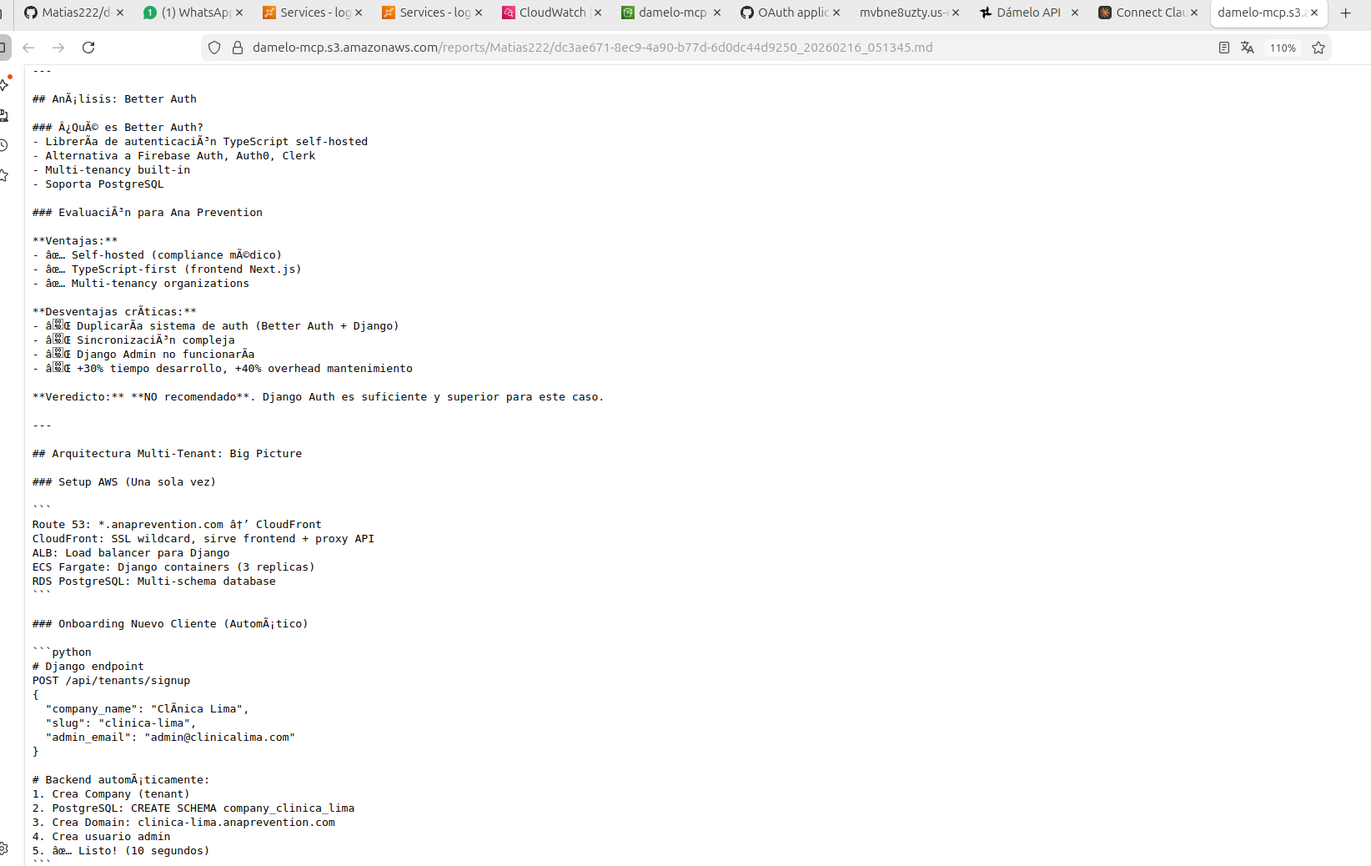
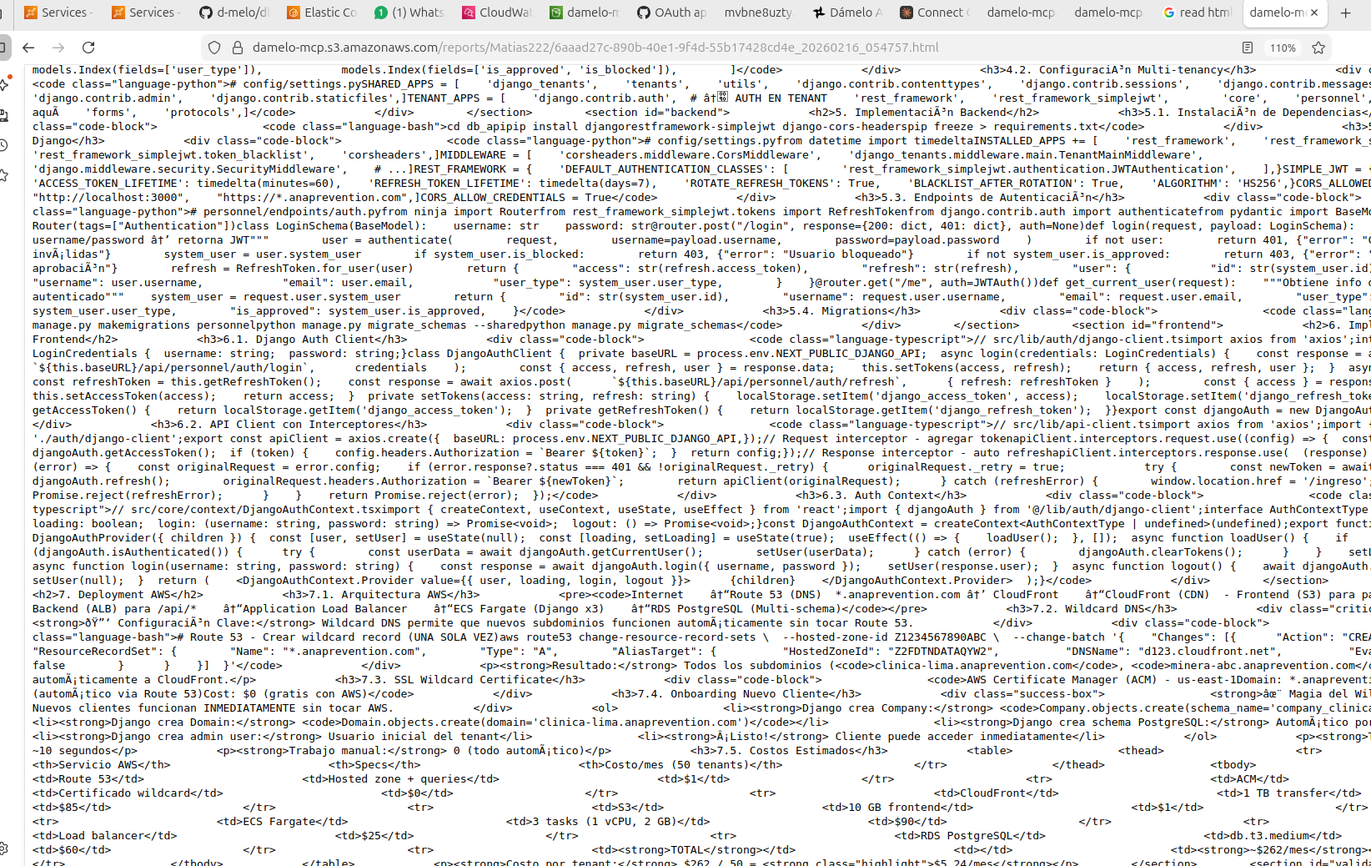
bs para el formateo de html

diff --git a/mcp/zz.html b/mcp/zz.html
@@ -1,0 +1,1 @@
+<!DOCTYPE html><html lang="es"><head>    <meta charset="UTF-8">    <meta name="viewport" content="width=device-width, initial-scale=1.0">    <title>Fase 0: Django Auth Setup - Ana Prevention</title>    <style>        * {            margin: 0;            padding: 0;            box-sizing: border-box;        }                body {            font-family: -apple-system, BlinkMacSystemFont, 'Segoe UI', Roboto, 'Helvetica Neue', Arial, sans-serif;            line-height: 1.6;            color: #333;            background: #f5f5f5;            padding: 20px;        }                .container {            max-width: 1200px;            margin: 0 auto;            background: white;            padding: 40px;            border-radius: 8px;            box-shadow: 0 2px 8px rgba(0,0,0,0.1);        }                header {            border-bottom: 3px solid #28D196;            padding-bottom: 20px;            margin-bottom: 40px;        }                h1 {            color: #1a1a1a;            font-size: 2.5em;            margin-bottom: 10px;        }                .subtitle {            color: #666;            font-size: 1.2em;        }                h2 {            color: #28D196;            font-size: 1.8em;            margin-top: 40px;            margin-bottom: 20px;            padding-bottom: 10px;            border-bottom: 2px solid #e0e0e0;        }                h3 {            color: #333;            font-size: 1.4em;            margin-top: 30px;            margin-bottom: 15px;        }                h4 {            color: #555;            font-size: 1.2em;            margin-top: 20px;            margin-bottom: 10px;        }                p {            margin-bottom: 15px;        }                ul, ol {            margin-left: 30px;            margin-bottom: 15px;        }                li {            margin-bottom: 8px;        }                pre {            background: #f8f8f8;            border: 1px solid #e0e0e0;            border-radius: 4px;            padding: 15px;            overflow-x: auto;            margin-bottom: 20px;        }                code {            font-family: 'Courier New', Courier, monospace;            font-size: 0.9em;        }                .code-block {            background: #2d2d2d;            color: #f8f8f2;            padding: 20px;            border-radius: 6px;            margin-bottom: 20px;            overflow-x: auto;        }                .code-block code {            color: #f8f8f2;        }                .info-box {            background: #e3f2fd;            border-left: 4px solid #2196F3;            padding: 15px;            margin-bottom: 20px;            border-radius: 4px;        }                .warning-box {            background: #fff3e0;            border-left: 4px solid #ff9800;            padding: 15px;            margin-bottom: 20px;            border-radius: 4px;        }                .success-box {            background: #e8f5e9;            border-left: 4px solid #4caf50;            padding: 15px;            margin-bottom: 20px;            border-radius: 4px;        }                .critical-box {            background: #ffebee;            border-left: 4px solid #f44336;            padding: 15px;            margin-bottom: 20px;            border-radius: 4px;        }                table {            width: 100%;            border-collapse: collapse;            margin-bottom: 20px;        }                th, td {            padding: 12px;            text-align: left;            border: 1px solid #e0e0e0;        }                th {            background: #28D196;            color: white;            font-weight: 600;        }                tr:nth-child(even) {            background: #f9f9f9;        }                .toc {            background: #f8f8f8;            padding: 20px;            border-radius: 6px;            margin-bottom: 30px;        }                .toc h2 {            margin-top: 0;            border-bottom: none;        }                .toc ul {            list-style: none;            margin-left: 0;        }                .toc li {            margin-bottom: 5px;        }                .toc a {            color: #28D196;            text-decoration: none;        }                .toc a:hover {            text-decoration: underline;        }                .emoji {            font-size: 1.2em;        }                .highlight {            background: #fff176;            padding: 2px 4px;            border-radius: 2px;        }                .badge {            display: inline-block;            padding: 4px 8px;            border-radius: 12px;            font-size: 0.85em;            font-weight: 600;            margin-right: 5px;        }                .badge-success {            background: #4caf50;            color: white;        }                .badge-warning {            background: #ff9800;            color: white;        }                .badge-info {            background: #2196F3;            color: white;        }                .badge-critical {            background: #f44336;            color: white;        }    </style></head><body>    <div class="container">        <header>            <h1>🚀 Fase 0: Django Auth + Multi-tenancy</h1>            <p class="subtitle">Plan de Implementación Completo - Ana Prevention SaaS</p>            <p><strong>Fecha:</strong> Febrero 2026 | <strong>Proyecto:</strong> Ana Prevention v2</p>        </header>        <div class="toc">            <h2>📑 Tabla de Contenidos</h2>            <ul>                <li><a href="#resumen">1. Resumen Ejecutivo</a></li>                <li><a href="#decisiones">2. Decisiones Arquitectónicas</a></li>                <li><a href="#bd-legacy">3. Análisis Base de Datos Legacy</a></li>                <li><a href="#modelo">4. Modelo de Datos</a></li>                <li><a href="#backend">5. Implementación Backend</a></li>                <li><a href="#frontend">6. Implementación Frontend</a></li>                <li><a href="#aws">7. Deployment AWS</a></li>                <li><a href="#validacion">8. Validación de Subdominios</a></li>                <li><a href="#checklist">9. Checklist de Implementación</a></li>            </ul>        </div>        <section id="resumen">            <h2>1. Resumen Ejecutivo</h2>                        <div class="success-box">                <strong>✅ Decisión Final:</strong> Implementar Django Auth + JWT con arquitectura multi-tenant domain-based            </div>            <h3>Contexto del Proyecto</h3>            <p>Ana Prevention es un SaaS para empresas clínicas ocupacionales que está migrando desde un sistema legacy. El proyecto requiere:</p>            <ul>                <li><strong>Multi-tenancy:</strong> Cada clínica opera de forma aislada</li>                <li><strong>578 usuarios legacy:</strong> A migrar desde MySQL con ASP.NET Identity hashes</li>                <li><strong>Compliance médico:</strong> HIPAA-ready, datos sensibles</li>                <li><strong>Escalabilidad:</strong> Preparado para cientos de clientes</li>            </ul>            <h3>Stack Tecnológico</h3>            <table>                <thead>                    <tr>                        <th>Componente</th>                        <th>Tecnología</th>                        <th>Versión</th>                    </tr>                </thead>                <tbody>                    <tr>                        <td>Backend Framework</td>                        <td>Django</td>                        <td>5.2.10</td>                    </tr>                    <tr>                        <td>API Framework</td>                        <td>Django Ninja</td>                        <td>1.5.3</td>                    </tr>                    <tr>                        <td>Multi-tenancy</td>                        <td>django-tenants</td>                        <td>3.9.0</td>                    </tr>                    <tr>                        <td>Authentication</td>                        <td>djangorestframework-simplejwt</td>                        <td>5.3.0</td>                    </tr>                    <tr>                        <td>Database</td>                        <td>PostgreSQL</td>                        <td>15+</td>                    </tr>                    <tr>                        <td>Frontend</td>                        <td>Next.js + React</td>                        <td>14 + 18</td>                    </tr>                </tbody>            </table>        </section>        <section id="decisiones">            <h2>2. Decisiones Arquitectónicas</h2>            <h3>2.1. Django Auth vs. Better Auth vs. Firebase</h3>                        <div class="info-box">                <strong>Decisión:</strong> Django Auth + SimpleJWT            </div>            <h4>Alternativas Evaluadas:</h4>            <table>                <thead>                    <tr>                        <th>Solución</th>                        <th>Ventajas</th>                        <th>Desventajas</th>                        <th>Veredicto</th>                    </tr>                </thead>                <tbody>                    <tr>                        <td><strong>Django Auth</strong></td>                        <td>                            • Maduro (18 años)<br>                            • Permissions/Groups built-in<br>                            • Django Admin funciona<br>                            • Migración directa desde legacy<br>                            • Sin costos adicionales                        </td>                        <td>                            • Frontend debe implementar login UI<br>                            • No hay hooks preconstruidos                        </td>                        <td><span class="badge badge-success">✅ ELEGIDO</span></td>                    </tr>                    <tr>                        <td><strong>Better Auth</strong></td>                        <td>                            • TypeScript nativo<br>                            • Self-hosted<br>                            • Multi-tenancy built-in<br>                            • Hooks React                        </td>                        <td>                            • Duplica sistema de auth<br>                            • Sincronización compleja<br>                            • Django Admin no funciona<br>                            • +30% tiempo desarrollo                        </td>                        <td><span class="badge badge-critical">❌ Rechazado</span></td>                    </tr>                    <tr>                        <td><strong>Firebase Auth</strong></td>                        <td>                            • Setup rápido<br>                            • OAuth social fácil<br>                            • Documentación excelente                        </td>                        <td>                            • Vendor lock-in<br>                            • Datos en servidores Google<br>                            • Compliance complejo<br>                            • Costos recurrentes                        </td>                        <td><span class="badge badge-critical">❌ Rechazado</span></td>                    </tr>                </tbody>            </table>            <h3>2.2. SHARED vs. TENANT Users</h3>                        <div class="info-box">                <strong>Decisión:</strong> TENANT model (users en schema del tenant)            </div>            <h4>Justificación:</h4>            <ul>                <li><strong>Aislamiento total:</strong> Cada clínica tiene sus propios usuarios, 100% aislados</li>                <li><strong>Seguridad:</strong> No hay riesgo de data leak entre tenants</li>                <li><strong>Simplicidad:</strong> User pertenece a UN solo tenant (matching con legacy)</li>                <li><strong>Compliance:</strong> Cumplimiento médico más simple de auditar</li>                <li><strong>Consistency con legacy:</strong> El sistema legacy ya usa este modelo</li>            </ul>            <div class="warning-box">                <strong>⚠ Implicación:</strong> Si un doctor trabaja en múltiples clínicas, necesitará múltiples cuentas (una por clínica). Esto es aceptable para el caso de uso médico.            </div>            <h3>2.3. Domain-based Multi-tenancy</h3>                        <div class="info-box">                <strong>Decisión:</strong> Cada clínica tiene su propio subdominio            </div>            <h4>Arquitectura:</h4>            <pre><code>Clínica Lima:     https://clinica-lima.anaprevention.comClínica Arequipa: https://clinica-arequipa.anaprevention.comMinera ABC:       https://minera-abc.anaprevention.com</code></pre>            <h4>Ventajas:</h4>            <ul>                <li>✅ <strong>Branding:</strong> Cada empresa tiene su "espacio" propio</li>                <li>✅ <strong>Seguridad:</strong> Aislamiento visual claro</li>                <li>✅ <strong>Compliance:</strong> Mejor para auditorías médicas</li>                <li>✅ <strong>Profesional:</strong> URLs branded por cliente</li>                <li>✅ <strong>Wildcard DNS:</strong> Nuevos clientes funcionan inmediatamente</li>            </ul>        </section>        <section id="bd-legacy">            <h2>3. Análisis Base de Datos Legacy</h2>            <h3>3.1. Estructura de Usuarios Legacy</h3>                        <p>La base de datos legacy (MySQL) contiene <strong class="highlight">578 usuarios activos</strong> en la tabla <code>security_users</code>:</p>            <div class="code-block">                <code>security_users (MySQL Legacy)├── id (char(36))                          -- UUID├── user_type_id (char(36))                -- FK → security_user_types (rol)├── company_id (char(36))                  -- FK → companies (TENANT)├── person_id (char(36))                   -- FK → persons├── user_name (varchar(30))                -- Username/email├── password (varchar(200))                -- ASP.NET Identity hash (PBKDF2)├── refresh_token (longtext)├── refresh_token_expiry_time (datetime)├── status (tinyint(1))├── is_blocked (tinyint(1))├── is_approved (tinyint(1))└── full_name (varchar(255))</code>            </div>            <h3>3.2. Tipos de Usuario Legacy</h3>            <ul>                <li>Médico Ocupacional</li>                <li>Radiología</li>                <li>Neurología</li>                <li>Operaciones</li>                <li>Digitación y Escaneo</li>                <li>Gerencia</li>                <li>Analista de Datos</li>                <li>BOT (automatización)</li>                <li>Tercero (externos)</li>            </ul>            <h3>3.3. Estrategia de Migración</h3>                        <div class="success-box">                <strong>Approach:</strong> Migración con validación de password legacy en primer login            </div>            <ol>                <li><strong>Migrar usuarios:</strong> Copiar de <code>security_users</code> a Django <code>auth_user</code></li>                <li><strong>Preservar hashes:</strong> Guardar hash ASP.NET temporalmente</li>                <li><strong>Custom hasher:</strong> Django valida con hasher ASP.NET en primer login</li>                <li><strong>Rehash automático:</strong> En login exitoso, rehash a Django PBKDF2</li>                <li><strong>Transparente:</strong> Usuario no nota diferencia</li>            </ol>        </section>        <section id="modelo">            <h2>4. Modelo de Datos</h2>            <h3>4.1. SystemUser Model</h3>                        <p>Crear en la app <code>personnel</code> (TENANT_APP):</p>            <div class="code-block">                <code class="language-python"># personnel/models/system_user.pyfrom django.contrib.auth.models import Userfrom django.db import modelsimport uuidclass SystemUser(models.Model):    """Usuario del sistema (staff: admins, doctores, enfermeras, etc.)"""    id = models.UUIDField(primary_key=True, default=uuid.uuid4)        # Django User (auth)    user = models.OneToOneField(        User,        on_delete=models.CASCADE,        related_name='system_user'    )        # Relación con Person (si el user es también un Person/Doctor)    person = models.OneToOneField(        'personnel.Person',        null=True,        blank=True,        on_delete=models.SET_NULL,        related_name='system_user'    )        # Tipo de usuario    user_type = models.CharField(        max_length=100,        choices=[            ('admin', 'Administrador'),            ('doctor', 'Médico Ocupacional'),            ('nurse', 'Enfermera'),            ('operator', 'Operador'),            ('digitizer', 'Digitación'),            ('auditor', 'Auditor'),        ]    )        # Settings personalizados    settings_json = models.JSONField(default=dict, blank=True)        # Control de acceso    is_approved = models.BooleanField(default=False)    is_blocked = models.BooleanField(default=False)    request_change_password = models.BooleanField(default=False)        # Migración legacy    legacy_id = models.UUIDField(null=True, blank=True)        # Auditoría    created_at = models.DateTimeField(auto_now_add=True)    updated_at = models.DateTimeField(auto_now=True)        class Meta:        db_table = 'personnel_system_user'        indexes = [            models.Index(fields=['user_type']),            models.Index(fields=['is_approved', 'is_blocked']),        ]</code>            </div>            <h3>4.2. Configuración Multi-tenancy</h3>            <div class="code-block">                <code class="language-python"># config/settings.pySHARED_APPS = [    'django_tenants',    'tenants',    'utils',    'django.contrib.contenttypes',    'django.contrib.sessions',    'django.contrib.messages',    'django.contrib.admin',    'django.contrib.staticfiles',]TENANT_APPS = [    'django.contrib.auth',  # ← AUTH EN TENANT    'rest_framework',    'rest_framework_simplejwt',        'core',    'personnel',  # ← SystemUser aquí    'forms',    'protocols',]</code>            </div>        </section>        <section id="backend">            <h2>5. Implementación Backend</h2>            <h3>5.1. Instalación de Dependencias</h3>            <div class="code-block">                <code class="language-bash">cd db_apipip install djangorestframework-simplejwt django-cors-headerspip freeze > requirements.txt</code>            </div>            <h3>5.2. Configuración Django</h3>            <div class="code-block">                <code class="language-python"># config/settings.pyfrom datetime import timedeltaINSTALLED_APPS += [    'rest_framework',    'rest_framework_simplejwt',    'rest_framework_simplejwt.token_blacklist',    'corsheaders',]MIDDLEWARE = [    'corsheaders.middleware.CorsMiddleware',    'django_tenants.middleware.main.TenantMainMiddleware',    'django.middleware.security.SecurityMiddleware',    # ...]REST_FRAMEWORK = {    'DEFAULT_AUTHENTICATION_CLASSES': [        'rest_framework_simplejwt.authentication.JWTAuthentication',    ],}SIMPLE_JWT = {    'ACCESS_TOKEN_LIFETIME': timedelta(minutes=60),    'REFRESH_TOKEN_LIFETIME': timedelta(days=7),    'ROTATE_REFRESH_TOKENS': True,    'BLACKLIST_AFTER_ROTATION': True,    'ALGORITHM': 'HS256',}CORS_ALLOWED_ORIGINS = [    "http://localhost:3000",    "https://*.anaprevention.com",]CORS_ALLOW_CREDENTIALS = True</code>            </div>            <h3>5.3. Endpoints de Autenticación</h3>            <div class="code-block">                <code class="language-python"># personnel/endpoints/auth.pyfrom ninja import Routerfrom rest_framework_simplejwt.tokens import RefreshTokenfrom django.contrib.auth import authenticatefrom pydantic import BaseModelrouter = Router(tags=["Authentication"])class LoginSchema(BaseModel):    username: str    password: str@router.post("/login", response={200: dict, 401: dict}, auth=None)def login(request, payload: LoginSchema):    """Login con username/password → retorna JWT"""        user = authenticate(        request,        username=payload.username,        password=payload.password    )        if not user:        return 401, {"error": "Credenciales inválidas"}        system_user = user.system_user        if system_user.is_blocked:        return 403, {"error": "Usuario bloqueado"}        if not system_user.is_approved:        return 403, {"error": "Usuario pendiente de aprobación"}        refresh = RefreshToken.for_user(user)        return {        "access": str(refresh.access_token),        "refresh": str(refresh),        "user": {            "id": str(system_user.id),            "username": user.username,            "email": user.email,            "user_type": system_user.user_type,        }    }@router.get("/me", auth=JWTAuth())def get_current_user(request):    """Obtiene info del usuario autenticado"""    system_user = request.user.system_user        return {        "id": str(system_user.id),        "username": request.user.username,        "email": request.user.email,        "user_type": system_user.user_type,        "is_approved": system_user.is_approved,    }</code>            </div>            <h3>5.4. Migrations</h3>            <div class="code-block">                <code class="language-bash">python manage.py makemigrations personnelpython manage.py migrate_schemas --sharedpython manage.py migrate_schemas</code>            </div>        </section>        <section id="frontend">            <h2>6. Implementación Frontend</h2>            <h3>6.1. Django Auth Client</h3>            <div class="code-block">                <code class="language-typescript">// src/lib/auth/django-client.tsimport axios from 'axios';interface LoginCredentials {  username: string;  password: string;}class DjangoAuthClient {  private baseURL = process.env.NEXT_PUBLIC_DJANGO_API;  async login(credentials: LoginCredentials) {    const response = await axios.post(      `${this.baseURL}/api/personnel/auth/login`,      credentials    );        const { access, refresh, user } = response.data;    this.setTokens(access, refresh);    return { access, refresh, user };  }  async refresh() {    const refreshToken = this.getRefreshToken();    const response = await axios.post(      `${this.baseURL}/api/personnel/auth/refresh`,      { refresh: refreshToken }    );        const { access } = response.data;    this.setAccessToken(access);    return access;  }  private setTokens(access: string, refresh: string) {    localStorage.setItem('django_access_token', access);    localStorage.setItem('django_refresh_token', refresh);  }  getAccessToken() {    return localStorage.getItem('django_access_token');  }  private getRefreshToken() {    return localStorage.getItem('django_refresh_token');  }}export const djangoAuth = new DjangoAuthClient();</code>            </div>            <h3>6.2. API Client con Interceptores</h3>            <div class="code-block">                <code class="language-typescript">// src/lib/api-client.tsimport axios from 'axios';import { djangoAuth } from './auth/django-client';export const apiClient = axios.create({  baseURL: process.env.NEXT_PUBLIC_DJANGO_API,});// Request interceptor - agregar tokenapiClient.interceptors.request.use((config) => {  const token = djangoAuth.getAccessToken();  if (token) {    config.headers.Authorization = `Bearer ${token}`;  }  return config;});// Response interceptor - auto refreshapiClient.interceptors.response.use(  (response) => response,  async (error) => {    const originalRequest = error.config;    if (error.response?.status === 401 && !originalRequest._retry) {      originalRequest._retry = true;            try {        const newToken = await djangoAuth.refresh();        originalRequest.headers.Authorization = `Bearer ${newToken}`;        return apiClient(originalRequest);      } catch (refreshError) {        window.location.href = '/ingreso';        return Promise.reject(refreshError);      }    }    return Promise.reject(error);  });</code>            </div>            <h3>6.3. Auth Context</h3>            <div class="code-block">                <code class="language-typescript">// src/core/context/DjangoAuthContext.tsximport { createContext, useContext, useState, useEffect } from 'react';import { djangoAuth } from '@/lib/auth/django-client';interface AuthContextType {  user: User | null;  loading: boolean;  login: (username: string, password: string) => Promise<void>;  logout: () => Promise<void>;}const DjangoAuthContext = createContext<AuthContextType | undefined>(undefined);export function DjangoAuthProvider({ children }) {  const [user, setUser] = useState(null);  const [loading, setLoading] = useState(true);  useEffect(() => {    loadUser();  }, []);  async function loadUser() {    if (djangoAuth.isAuthenticated()) {      try {        const userData = await djangoAuth.getCurrentUser();        setUser(userData);      } catch (error) {        djangoAuth.clearTokens();      }    }    setLoading(false);  }  async function login(username: string, password: string) {    const response = await djangoAuth.login({ username, password });    setUser(response.user);  }  async function logout() {    await djangoAuth.logout();    setUser(null);  }  return (    <DjangoAuthContext.Provider value={{ user, loading, login, logout }}>      {children}    </DjangoAuthContext.Provider>  );}</code>            </div>        </section>        <section id="aws">            <h2>7. Deployment AWS</h2>            <h3>7.1. Arquitectura AWS</h3>            <pre><code>Internet    ↓Route 53 (DNS)  *.anaprevention.com → CloudFront    ↓CloudFront (CDN)  - Frontend (S3) para paths normales  - Backend (ALB) para /api/*    ↓Application Load Balancer    ↓ECS Fargate (Django x3)    ↓RDS PostgreSQL (Multi-schema)</code></pre>            <h3>7.2. Wildcard DNS</h3>            <div class="critical-box">                <strong>🔑 Configuración Clave:</strong> Wildcard DNS permite que nuevos subdominios funcionen automáticamente sin tocar Route 53.            </div>            <div class="code-block">                <code class="language-bash"># Route 53 - Crear wildcard record (UNA SOLA VEZ)aws route53 change-resource-record-sets \  --hosted-zone-id Z1234567890ABC \  --change-batch '{    "Changes": [{      "Action": "CREATE",      "ResourceRecordSet": {        "Name": "*.anaprevention.com",        "Type": "A",        "AliasTarget": {          "HostedZoneId": "Z2FDTNDATAQYW2",          "DNSName": "d123.cloudfront.net",          "EvaluateTargetHealth": false        }      }    }]  }'</code>            </div>            <p><strong>Resultado:</strong> Todos los subdominios (<code>clinica-lima.anaprevention.com</code>, <code>minera-abc.anaprevention.com</code>, etc.) apuntan automáticamente a CloudFront.</p>            <h3>7.3. SSL Wildcard Certificate</h3>            <div class="code-block">                <code>AWS Certificate Manager (ACM) - us-east-1Domain: *.anaprevention.comValidation: DNS (automático via Route 53)Cost: $0 (gratis con AWS)</code>            </div>            <h3>7.4. Onboarding Nuevo Cliente</h3>            <div class="success-box">                <strong>✨ Magia del Wildcard:</strong> Nuevos clientes funcionan INMEDIATAMENTE sin tocar AWS.            </div>            <ol>                <li><strong>Django crea Company:</strong> <code>Company.objects.create(schema_name='company_clinica_lima')</code></li>                <li><strong>Django crea Domain:</strong> <code>Domain.objects.create(domain='clinica-lima.anaprevention.com')</code></li>                <li><strong>Django crea schema PostgreSQL:</strong> Automático por django-tenants</li>                <li><strong>Django crea admin user:</strong> Usuario inicial del tenant</li>                <li><strong>¡Listo!</strong> Cliente puede acceder inmediatamente</li>            </ol>            <p><strong>Tiempo total:</strong> ~10 segundos</p>            <p><strong>Trabajo manual:</strong> 0 (todo automático)</p>            <h3>7.5. Costos Estimados</h3>            <table>                <thead>                    <tr>                        <th>Servicio AWS</th>                        <th>Specs</th>                        <th>Costo/mes (50 tenants)</th>                    </tr>                </thead>                <tbody>                    <tr>                        <td>Route 53</td>                        <td>Hosted zone + queries</td>                        <td>$1</td>                    </tr>                    <tr>                        <td>ACM</td>                        <td>Certificado wildcard</td>                        <td>$0</td>                    </tr>                    <tr>                        <td>CloudFront</td>                        <td>1 TB transfer</td>                        <td>$85</td>                    </tr>                    <tr>                        <td>S3</td>                        <td>10 GB frontend</td>                        <td>$1</td>                    </tr>                    <tr>                        <td>ECS Fargate</td>                        <td>3 tasks (1 vCPU, 2 GB)</td>                        <td>$90</td>                    </tr>                    <tr>                        <td>ALB</td>                        <td>Load balancer</td>                        <td>$25</td>                    </tr>                    <tr>                        <td>RDS PostgreSQL</td>                        <td>db.t3.medium</td>                        <td>$60</td>                    </tr>                    <tr>                        <td><strong>TOTAL</strong></td>                        <td></td>                        <td><strong>~$262/mes</strong></td>                    </tr>                </tbody>            </table>            <p><strong>Costo por tenant:</strong> $262 / 50 = <strong class="highlight">$5.24/mes</strong></p>        </section>        <section id="validacion">            <h2>8. Validación de Subdominios</h2>            <h3>8.1. Problema</h3>            <div class="warning-box">                <strong>⚠ Issue:</strong> Con wildcard DNS, <strong>cualquier</strong> subdominio carga el frontend, incluso subdominios que no existen en la base de datos.            </div>            <p>Ejemplos problemáticos:</p>            <ul>                <li><code>aslkdnaslkd1.anaprevention.com</code> → Cargaría frontend ❌</li>                <li><code>clinca-lima.anaprevention.com</code> (typo) → Cargaría frontend ❌</li>                <li><code>hacker-test.anaprevention.com</code> → Cargaría frontend ❌</li>            </ul>            <h3>8.2. Solución: Validación en Frontend al Cargar</h3>            <div class="success-box">                <strong>✅ Approach:</strong> Frontend ejecuta "ping" al backend al cargar para validar que el subdomain existe.            </div>            <h4>Backend: Endpoint de Validación</h4>            <div class="code-block">                <code class="language-python"># tenants/endpoints/validation.py@router.get("/validate", auth=None)def validate_tenant(request):    """Valida que el domain del request existe"""    hostname = request.get_host()        try:        domain = Domain.objects.get(domain=hostname)        tenant = domain.tenant                return {            'valid': True,            'tenant': {                'id': str(tenant.id),                'name': tenant.name,            }        }    except Domain.DoesNotExist:        # Buscar sugerencias (typo correction)        suggestions = get_domain_suggestions(hostname)                return JsonResponse({            'valid': False,            'error': 'domain_not_found',            'message': f'El dominio {hostname} no existe.',            'suggestions': suggestions        }, status=404)</code>            </div>            <h4>Frontend: Validator Component</h4>            <div class="code-block">                <code class="language-typescript">// src/components/TenantValidator.tsxexport function TenantValidator({ children }) {  const [status, setStatus] = useState('validating');  useEffect(() => {    validateTenant();  }, []);  async function validateTenant() {    try {      const response = await fetch('/api/tenants/validate');      const data = await response.json();      if (response.ok && data.valid) {        setStatus('valid');      } else {        setStatus('invalid');      }    } catch (error) {      setStatus('invalid');    }  }  if (status === 'validating') {    return <LoadingScreen />;  }  if (status === 'invalid') {    return <InvalidTenantScreen />;  }  return children;}</code>            </div>            <h3>8.3. Flujo de Validación</h3>            <pre><code>1. Usuario accede: https://typo-error.anaprevention.com   ↓2. CloudFront sirve frontend (HTML)   ↓ (~200ms)3. Frontend carga y ejecuta validación   fetch('/api/tenants/validate')   ↓4. Django valida: Domain.objects.get(domain=hostname)   → NO EXISTE   ↓5. Backend retorna 404 con sugerencias   ↓6. Frontend muestra:   "🔍 Organización no encontrada    ¿Quisiste decir clinica-lima.anaprevention.com?"</code></pre>            <p><strong>Tiempo total:</strong> ~500ms</p>            <p><strong>UX:</strong> Error amigable con sugerencias inteligentes</p>        </section>        <section id="checklist">            <h2>9. Checklist de Implementación</h2>            <h3>9.1. Backend (db_api)</h3>            <div class="code-block">                <code>[ ] 1. Instalar dependencias    pip install djangorestframework-simplejwt django-cors-headers[ ] 2. Configurar settings.py    - TENANT_APPS += ['django.contrib.auth']    - REST_FRAMEWORK authentication    - SIMPLE_JWT config    - CORS settings[ ] 3. Crear modelo SystemUser    - personnel/models/system_user.py    - Relaciones: User, Person    - Campos: user_type, is_approved, is_blocked[ ] 4. Crear endpoints de auth    - POST /api/personnel/auth/login    - GET /api/personnel/auth/me    - POST /api/personnel/auth/refresh[ ] 5. Crear endpoint de validación    - GET /api/tenants/validate[ ] 6. Migrations    - makemigrations    - migrate_schemas[ ] 7. Script de migración legacy    - management/commands/migrate_legacy_users.py[ ] 8. Testing    - Test login flow    - Test JWT refresh    - Test multi-tenancy isolation</code>            </div>            <h3>9.2. Frontend (ana-prevention-v2)</h3>            <div class="code-block">                <code>[ ] 1. Crear DjangoAuthClient    - src/lib/auth/django-client.ts    - Métodos: login, refresh, logout[ ] 2. Crear API Client    - src/lib/api-client.ts    - Interceptores: request (token), response (refresh)[ ] 3. Crear AuthContext    - src/core/context/DjangoAuthContext.tsx    - Estado: user, loading    - Funciones: login, logout[ ] 4. Crear TenantValidator    - src/components/TenantValidator.tsx    - Validación al cargar[ ] 5. Crear InvalidTenantScreen    - src/components/InvalidTenantScreen.tsx    - Mensaje de error + sugerencias[ ] 6. Integrar en layout    - src/app/layout.tsx    - Wrap con DjangoAuthProvider + TenantValidator[ ] 7. Página de login    - src/app/ingreso/page.tsx    - Form + validación[ ] 8. Eliminar Firebase    - Remover dependencias    - Limpiar código Firebase Auth</code>            </div>            <h3>9.3. AWS Deployment</h3>            <div class="code-block">                <code>[ ] 1. Route 53    - Registrar dominio anaprevention.com    - Crear wildcard record: *.anaprevention.com[ ] 2. ACM    - Request certificado wildcard    - Validar con DNS[ ] 3. RDS PostgreSQL    - Crear instancia    - Configurar security groups[ ] 4. ECS + Docker    - Dockerizar Django    - Push a ECR    - Crear ECS cluster + service[ ] 5. ALB    - Crear load balancer    - Configurar target groups    - Listener HTTPS[ ] 6. S3 + CloudFront    - Build Next.js    - Upload a S3    - Crear CloudFront distribution    - Configurar origins (S3 + ALB)[ ] 7. Testing end-to-end    - Crear tenant de prueba    - Verificar subdominio funciona    - Test login + API calls</code>            </div>            <h3>9.4. Timeline Estimado</h3>            <table>                <thead>                    <tr>                        <th>Fase</th>                        <th>Tareas</th>                        <th>Tiempo</th>                        <th>Responsable</th>                    </tr>                </thead>                <tbody>                    <tr>                        <td><strong>Semana 1</strong></td>                        <td>Backend: Models, endpoints, JWT config</td>                        <td>3-4 días</td>                        <td>Backend Dev</td>                    </tr>                    <tr>                        <td><strong>Semana 1</strong></td>                        <td>Frontend: Auth client, context, UI</td>                        <td>3-4 días</td>                        <td>Frontend Dev</td>                    </tr>                    <tr>                        <td><strong>Semana 2</strong></td>                        <td>Migración legacy users</td>                        <td>2 días</td>                        <td>Backend Dev</td>                    </tr>                    <tr>                        <td><strong>Semana 2</strong></td>                        <td>Validación subdominios</td>                        <td>1 día</td>                        <td>Full Stack</td>                    </tr>                    <tr>                        <td><strong>Semana 2</strong></td>                        <td>Testing integración</td>                        <td>2 días</td>                        <td>QA + Devs</td>                    </tr>                    <tr>                        <td><strong>Semana 3</strong></td>                        <td>AWS setup + deployment</td>                        <td>3-4 días</td>                        <td>DevOps</td>                    </tr>                    <tr>                        <td><strong>Semana 3</strong></td>                        <td>Testing producción</td>                        <td>1-2 días</td>                        <td>Todo el equipo</td>                    </tr>                </tbody>            </table>            <p><strong>Total estimado:</strong> <span class="highlight">3 semanas</span></p>        </section>        <section id="conclusiones">            <h2>10. Conclusiones y Próximos Pasos</h2>            <h3>10.1. Resumen de Decisiones</h3>            <div class="success-box">                <ul style="margin: 0;">                    <li>✅ <strong>Django Auth + JWT</strong> (rechazado Better Auth y Firebase)</li>                    <li>✅ <strong>TENANT model</strong> (users en schema del tenant)</li>                    <li>✅ <strong>Domain-based multi-tenancy</strong> (cada cliente su subdominio)</li>                    <li>✅ <strong>Wildcard DNS</strong> (onboarding automático)</li>                    <li>✅ <strong>Validación frontend</strong> (ping al backend)</li>                </ul>            </div>            <h3>10.2. Ventajas de la Arquitectura</h3>            <ul>                <li><strong>Simple:</strong> Un solo sistema de auth (Django)</li>                <li><strong>Maduro:</strong> 18 años de Django Auth en producción</li>                <li><strong>Seguro:</strong> Aislamiento total por tenant</li>                <li><strong>Escalable:</strong> Wildcard DNS soporta infinitos tenants</li>                <li><strong>Profesional:</strong> Cada cliente su dominio branded</li>                <li><strong>Económico:</strong> ~$5/mes por tenant</li>                <li><strong>Compliance:</strong> HIPAA-ready, datos en tu infraestructura</li>            </ul>            <h3>10.3. Próximos Pasos Inmediatos</h3>            <ol>                <li><strong>Semana 1:</strong> Implementar backend (models + endpoints + JWT)</li>                <li><strong>Semana 1:</strong> Implementar frontend (auth client + context + UI)</li>                <li><strong>Semana 2:</strong> Migrar usuarios legacy + validación subdominios</li>                <li><strong>Semana 3:</strong> Deploy AWS + testing producción</li>            </ol>            <h3>10.4. Recursos</h3>            <ul>                <li><strong>Documentación Django Auth:</strong> <a href="https://docs.djangoproject.com/en/5.0/topics/auth/">https://docs.djangoproject.com/en/5.0/topics/auth/</a></li>                <li><strong>Django Tenants:</strong> <a href="https://django-tenants.readthedocs.io/">https://django-tenants.readthedocs.io/</a></li>                <li><strong>SimpleJWT:</strong> <a href="https://django-rest-framework-simplejwt.readthedocs.io/">https://django-rest-framework-simplejwt.readthedocs.io/</a></li>                <li><strong>AWS CloudFront:</strong> <a href="https://docs.aws.amazon.com/cloudfront/">https://docs.aws.amazon.com/cloudfront/</a></li>            </ul>            <div class="info-box">                <strong>📞 Contacto:</strong> Para dudas o soporte durante la implementación, contactar al equipo técnico.            </div>        </section>        <footer style="margin-top: 60px; padding-top: 20px; border-top: 2px solid #e0e0e0; text-align: center; color: #666;">            <p><strong>Ana Prevention v2.0</strong> - Fase 0: Django Auth + Multi-tenancy</p>            <p>Generado: Febrero 2026 | <a href="https://claude.ai/claude-code" style="color: #28D196;">🤖 Creado con Claude Code</a></p>        </footer>    </div></body></html>

diff --git a/db_api/fenix/services/s3_service.py b/db_api/fenix/services/s3_service.py
@@ -7,6 +7,7 @@ from datetime import datetime
 from typing import Optional
 import os
 from dotenv import load_dotenv
+from bs4 import BeautifulSoup
 
 load_dotenv()
 
@@ -23,6 +24,25 @@ class S3Service:
         )
         self.bucket_name = os.getenv('S3_BUCKET_NAME')
 
+    def _format_html(self, html_content: str) -> str:
+        """
+        Formatea HTML minificado a HTML bien indentado y estructurado.
+
+        Args:
+            html_content: HTML en una sola línea o minificado
+
+        Returns:
+            HTML formateado con indentación correcta
+        """
+        try:
+            soup = BeautifulSoup(html_content, 'html.parser')
+            formatted_html = soup.prettify()
+            return formatted_html
+        except Exception as e:
+            print(f"Warning: Could not format HTML: {e}")
+            # Si falla el formateo, devolver el original
+            return html_content
+
     def upload_session_report(
         self,
         session_id: str,
@@ -34,7 +54,7 @@ class S3Service:
 
         Args:
             session_id: UUID de la sesión
-            content: Contenido markdown del informe
+            content: Contenido HTML del informe (puede estar minificado)
             github_handle: Handle de GitHub del owner
 
         Returns:
@@ -48,13 +68,16 @@ class S3Service:
         s3_key = f"reports/{github_handle}/{file_name}"
 
         try:
+            # Formatear HTML antes de subir
+            formatted_content = self._format_html(content)
+
             # Subir archivo a S3
             # El acceso público se configura via Bucket Policy (no ACL)
             self.s3_client.put_object(
                 Bucket=self.bucket_name,
                 Key=s3_key,
-                Body=content.encode('utf-8'),
-                ContentType='text/markdown',
+                Body=formatted_content.encode('utf-8'),
+                ContentType='text/html; charset=utf-8',
                 ContentDisposition='inline',
                 Metadata={
                     'session_id': session_id,

diff --git a/db_api/config/settings.py b/db_api/config/settings.py
@@ -30,7 +30,7 @@ SETUP = os.environ.get("SETUP")
 
 DEBUG = True
 
-ALLOWED_HOSTS = ["3jcimmhwfp.us-east-1.awsapprunner.com"]
+ALLOWED_HOSTS = ["3jcimmhwfp.us-east-1.awsapprunner.com","localhost"]
 
 # Application definition
 
